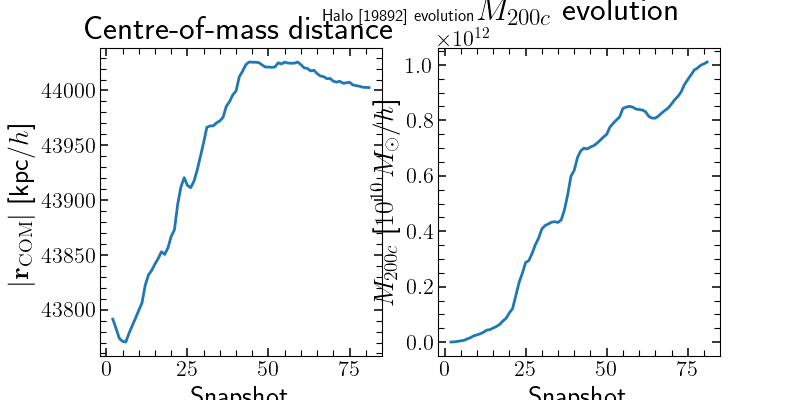
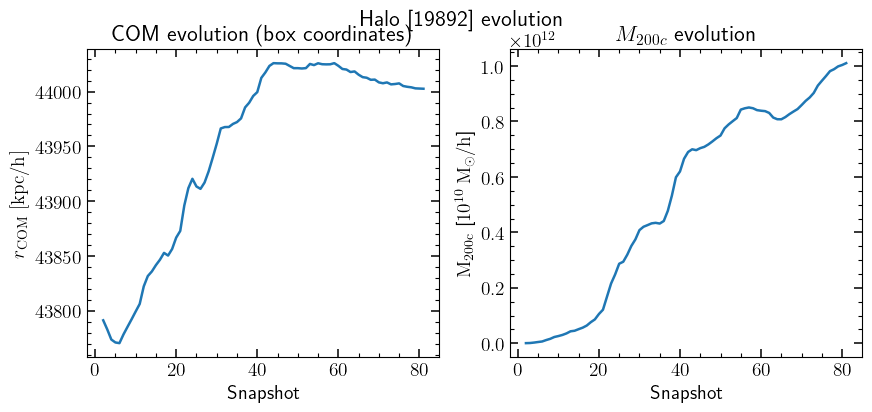
updating matplotlib style

diff --git a/src/halo_evolution.py b/src/halo_evolution.py
@@ -186,22 +186,22 @@ def plot_evolution(
         pos_com[i] = com_halo(datafile)
         m_200c[i] = mcrit200(datafile)
 
-    fig, ax = plt.subplots(1, 2, figsize=(8, 4))
+    fig, ax = plt.subplots(1, 2, figsize=(10, 4))
 
-    fig.suptitle("Halo {} evolution".format(str(subfind_ids[-1])))
+    fig.suptitle("Halo {} evolution".format(str(subfind_ids[-1])), fontsize=16)
 
     ax[0].plot(snaps, np.linalg.norm(pos_com, axis=1))
     ax[0].set_xlabel("Snapshot")
-    ax[0].set_ylabel(r"$|\mathbf{r}_{\rm COM}|$ [kpc/$h$]")
-    ax[0].set_title("Centre-of-mass distance")
+    ax[0].set_ylabel(r"$r_{\rm COM}\ [{\rm kpc/h}]$")
+    ax[0].set_title("COM evolution (box coordinates)")
 
     ax[1].plot(snaps, m_200c)
     ax[1].set_xlabel("Snapshot")
-    ax[1].set_ylabel(r"$M_{200c}$ [$10^{10}\,M_\odot/h$]")
+    ax[1].set_ylabel(r"$\rm{M}_{200c}$ [$10^{10}\,\rm{M}_\odot/h$]")
     ax[1].set_title(r"$M_{200c}$ evolution")
 
 
-    fig.savefig(figname)
+    fig.savefig(figname, bbox_inches='tight')
     
 
 def plot_halo_particles(
